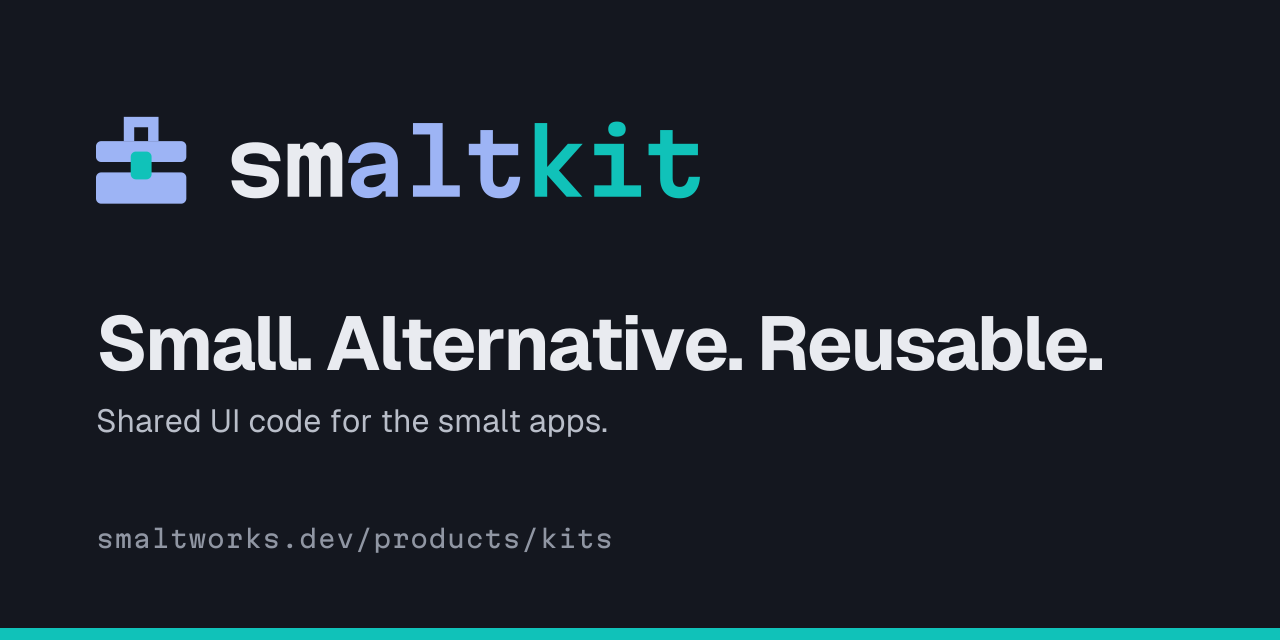
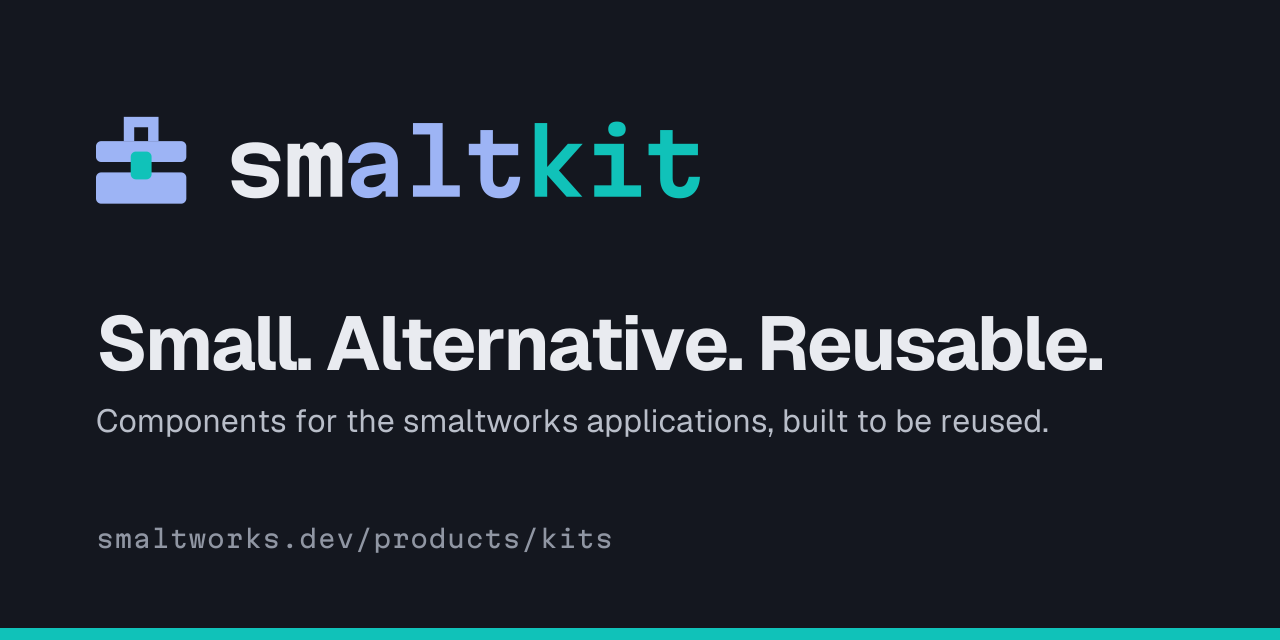
smaltkit's line: "Components for the smaltworks applications, built to be reused."
The owner's pick, so the line doesn't repeat the tagline's "Reusable". DECISIONS.md keeps both
earlier lines. The social card is regenerated with it (only smaltkit's: the other cards' PNGs
differed by rasteriser bytes alone).

Claude-Session: https://claude.ai/code/session_01M2merraWruyA3Ta3VLojJ9

Changed region(s): [[0.0625, 0.625, 0.8125, 0.6875]]

diff --git a/scripts/social_cards.py b/scripts/social_cards.py
@@ -59,7 +59,7 @@ PRODUCTS = {
            "A graph database for the browser that speaks Cypher.",
            "github.com/stenhoor/smaltcy"),
     "kit": ("Small. Alternative. Reusable.",
-            "Reusable components for the smaltworks applications.",
+            "Components for the smaltworks applications, built to be reused.",
             "smaltworks.dev/products/kits"),
     "ml": ("Small. Alternative. Predict.",
            "Machine learning for smaltdb, on the hardware you have.",

diff --git a/BRAND.md b/BRAND.md
@@ -274,7 +274,7 @@ smaltworks keeps kiln orange: it is the family, not a layer. smaltty takes kiln 
 | Layer | Engine | Languages | Languages | Languages | Languages | Kits | Kits | None: kiln, the family's | User tools | User tools | User tools | User tools |
 | What it is | The engine | The SQL | The dataframes | The typed API | The Cypher | The reusable components | The machine learning | The TypeScript implementation | The query workbench | The reports | The notebooks | The pipelines |
 | Tagline | Small. Alternative. Fast. | Small. Alternative. Familiar. | Small. Alternative. Frames. | Small. Alternative. Typed. | Small. Alternative. Connected. | Small. Alternative. Reusable. | Small. Alternative. Predict. | Small. Alternative. Code. | Small. Alternative. Query. | Small. Alternative. Insight. | Small. Alternative. Notebooks. | Small. Alternative. Flow. |
-| Positioning | A fast alternative database for the browser, written in TypeScript. | The SQL you know, for smaltdb. | Dataframes for smaltdb. Small and fast. | smaltdb, straight from TypeScript. | A graph database for the browser that speaks Cypher. | Reusable components for the smaltworks applications. | Machine learning for smaltdb, on the hardware you have. | TypeScript for the smalt apps. | A query workbench for smaltdb that runs entirely in the browser. | Business intelligence in the browser, powered by smaltdb. | Reactive notebooks for smaltdb. | Data pipelines for smaltdb. |
+| Positioning | A fast alternative database for the browser, written in TypeScript. | The SQL you know, for smaltdb. | Dataframes for smaltdb. Small and fast. | smaltdb, straight from TypeScript. | A graph database for the browser that speaks Cypher. | Components for the smaltworks applications, built to be reused. | Machine learning for smaltdb, on the hardware you have. | TypeScript for the smalt apps. | A query workbench for smaltdb that runs entirely in the browser. | Business intelligence in the browser, powered by smaltdb. | Reactive notebooks for smaltdb. | Data pipelines for smaltdb. |
 | Mark | Grain | Star (`*`) | Axes | Generic (`<T>`) | Graph | Case | Hardware | Grain, turned | Chevron (`>` and `_`) | Scatter | Pencil | Twin |
 | Logos | `logos/smaltdb/` | `logos/smaltql/` | `logos/smaltdf/` | `logos/smaltts/` | `logos/smaltcy/` | `logos/smaltkit/` | `logos/smaltml/` | `logos/smaltty/` | `logos/smaltui/` | `logos/smaltbi/` | `logos/smaltnb/` | `logos/smaltfl/` |
 
@@ -388,7 +388,7 @@ Three badges, in `badges/plugins/`, say how a plugin relates to smaltdb:
 
 smaltkit is the reusable components the smaltworks applications are built from, more than UI: the engine loader, the environment manifest's data steps, file and URL handling, formatting, SQL and Cypher text tools, TypeScript, the editor, the grid, the charts and tables, the graph view and the controls. It sits at the kit layer, between the languages and the user tools, and takes the layer's jade. It had no brand of its own until 2026-11-14, when the owner gave it one (DECISIONS.md, "smaltkit: a brand").
 
-- **Words:** "Small. Alternative. Reusable." and "Reusable components for the smaltworks applications." (DECISIONS.md, "smaltkit: a brand": the line changed the day it was set) Its README header is the lockup with that line and "Part of smaltworks."
+- **Words:** "Small. Alternative. Reusable." and "Components for the smaltworks applications, built to be reused." (DECISIONS.md, "smaltkit: a brand": the line changed the day it was set) Its README header is the lockup with that line and "Part of smaltworks."
 - **Mark:** the Case: a kit case with a handle, a lid and a base, and the latch that holds them as the chip, in jade.
 - **Its other brand job** stays: its components take their colours, type and icons from `tokens/`, so the apps look like one family.
 

diff --git a/DECISIONS.md b/DECISIONS.md
@@ -335,13 +335,14 @@ Round 1 showed five marks (exploration board KIT-Marks), all in the kit layer's 
 | | **Picked** |
 | --- | --- |
 | Tagline | **"Small. Alternative. Reusable."** (the owner's word, 2026-11-14; first given as "Small. Alternate. Reusable.", then set to "Alternative" like every other tagline) |
-| Positioning | **"Reusable components for the smaltworks applications."** (the owner, 2026-11-14: "kits are more than UI"). First set to "Shared UI code for the smalt apps.", the README line it already had |
+| Positioning | **"Components for the smaltworks applications, built to be reused."** (the owner, 2026-11-14: "kits are more than UI"). First "Shared UI code for the smalt apps.", the README line it already had; then "Reusable components for the smaltworks applications.", which echoed the tagline's "Reusable" |
 | Mark | **Case** (K2): a kit case with a handle, a lid and a base; the latch that holds them is the chip |
 | Layer | **Kits**, jade (owner, 2026-11-14), the colour the layer already had for smaltml |
 
 The positioning line changed the same day. smaltkit holds the engine loader, the manifest's data steps, file and URL
 handling, formatting, SQL and Cypher text tools and TypeScript as much as UI, so "UI code" undersold it: the owner's
-words, "reusable components for the smaltworks applications", became the line. The kits page no longer describes
+words, "reusable components for the smaltworks applications", became the line, then, so it doesn't repeat the
+tagline's last word, "Components for the smaltworks applications, built to be reused." (the owner's pick). The kits page no longer describes
 smaltty, which is a product of its own ("smaltty: a product"), not part of the kits.
 
 Picked 2026-11-14, the same day as smaltml's Hardware ("smaltml" above): the kit layer's first two marks. A case with

diff --git a/site/products/kits.md b/site/products/kits.md
@@ -12,7 +12,7 @@ applications, each doing one thing, from loading the engine and reading files to
 
 ## <Mark product="kit" :size="32" /> smaltkit
 
-**Small. Alternative. Reusable.** Reusable components for the smaltworks applications.
+**Small. Alternative. Reusable.** Components for the smaltworks applications, built to be reused.
 
 Today the kits live in **smaltkit**: the engine loader, URL rewriting, number and date formatting, SVG chart helpers and
 charts, tables, a virtualized grid, SQL text tools, a code editor, a DOM toolkit, the environment manifest's data steps,
